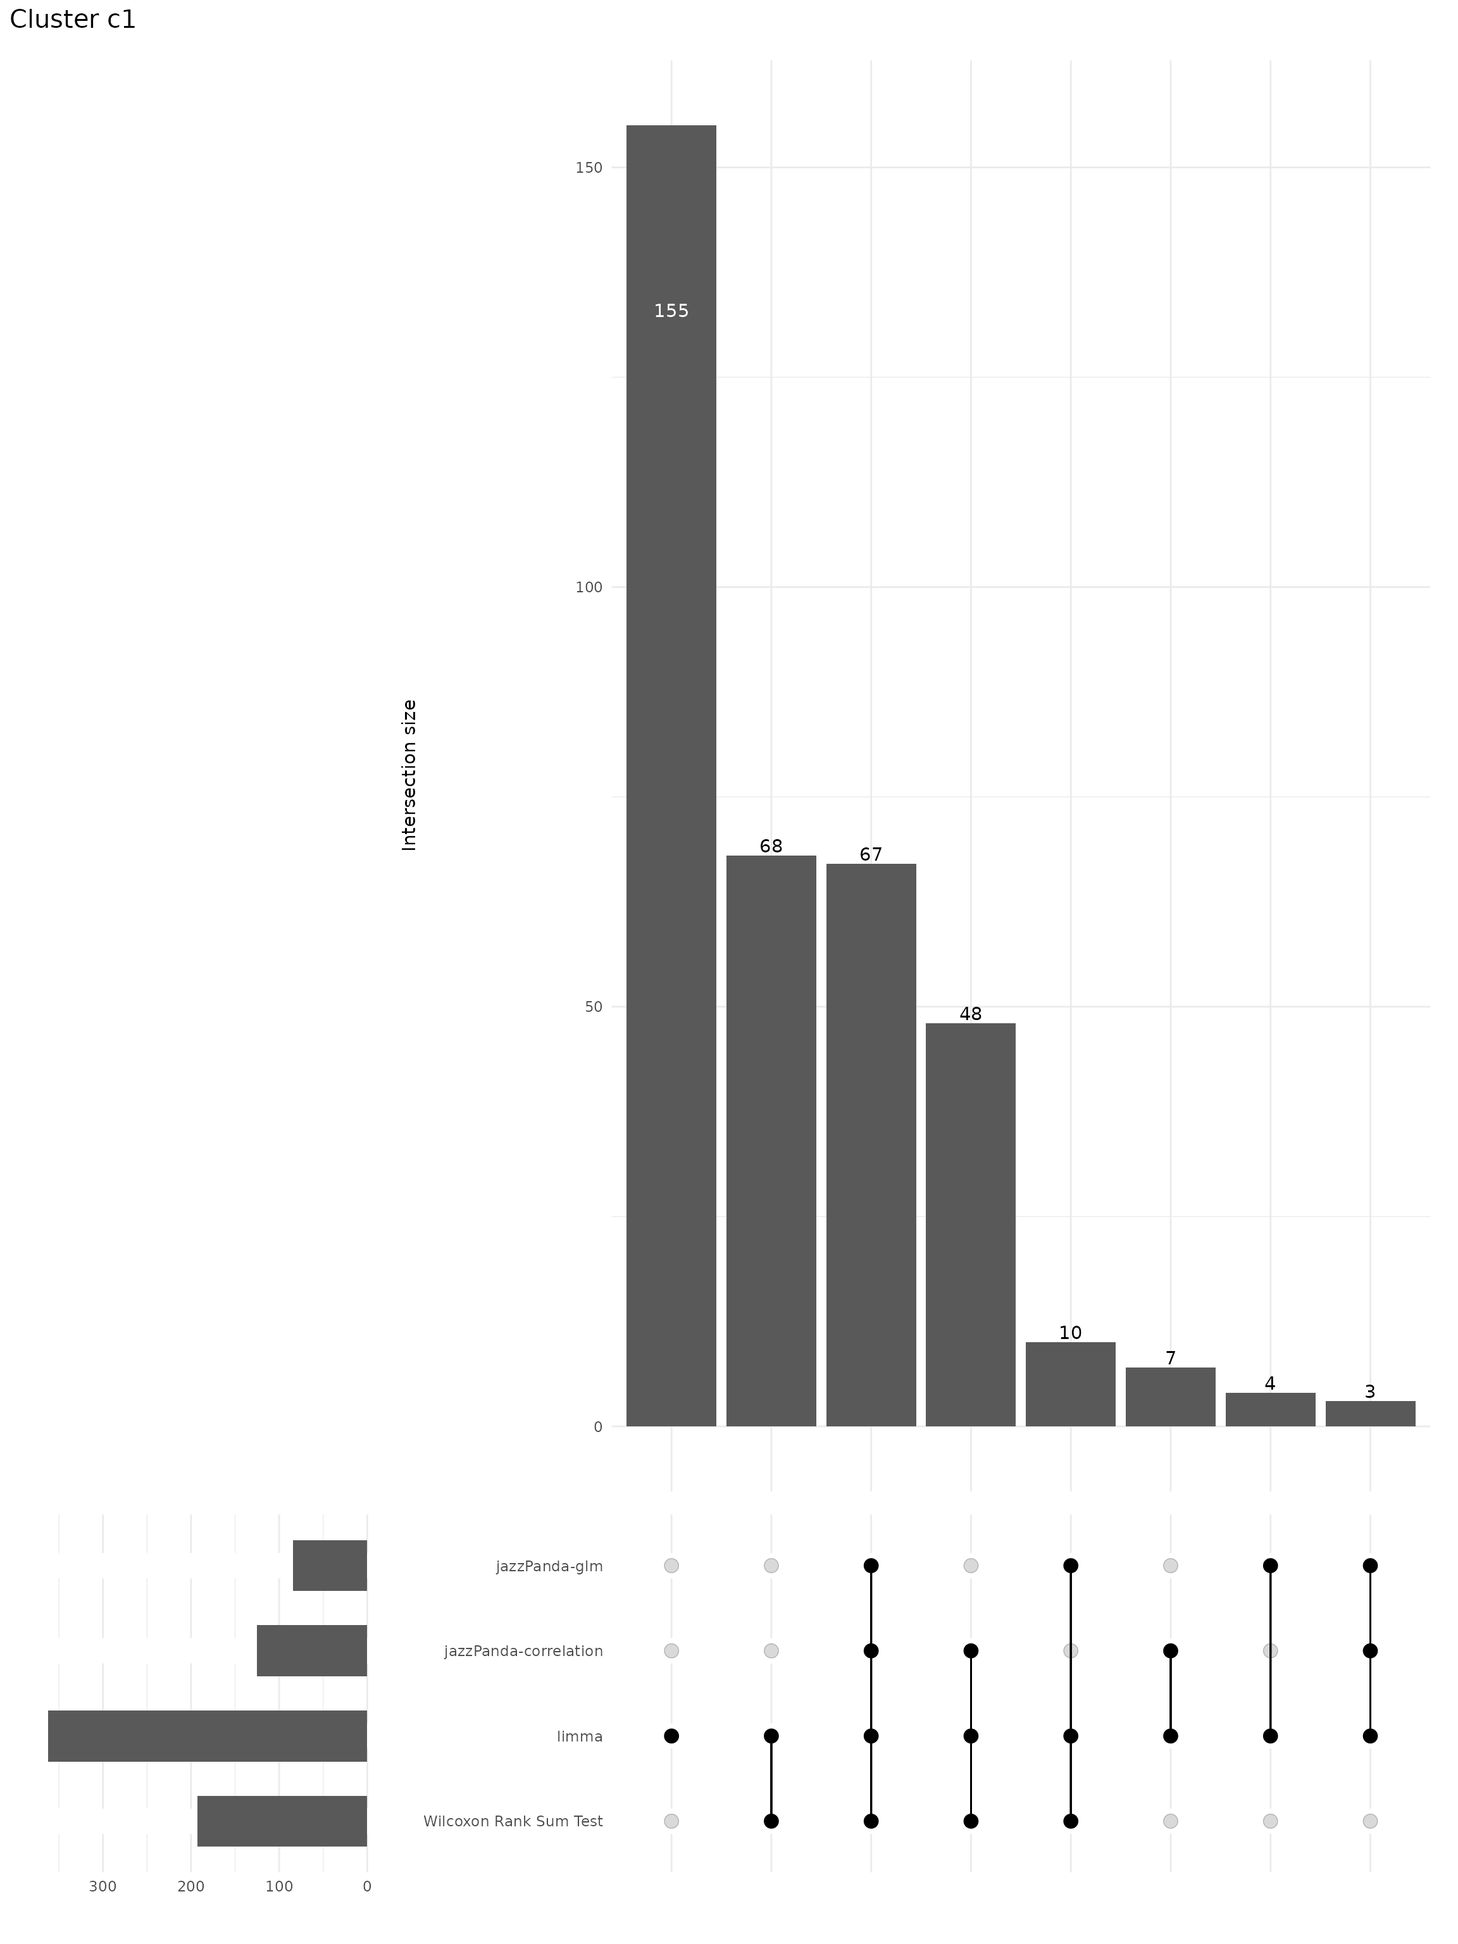
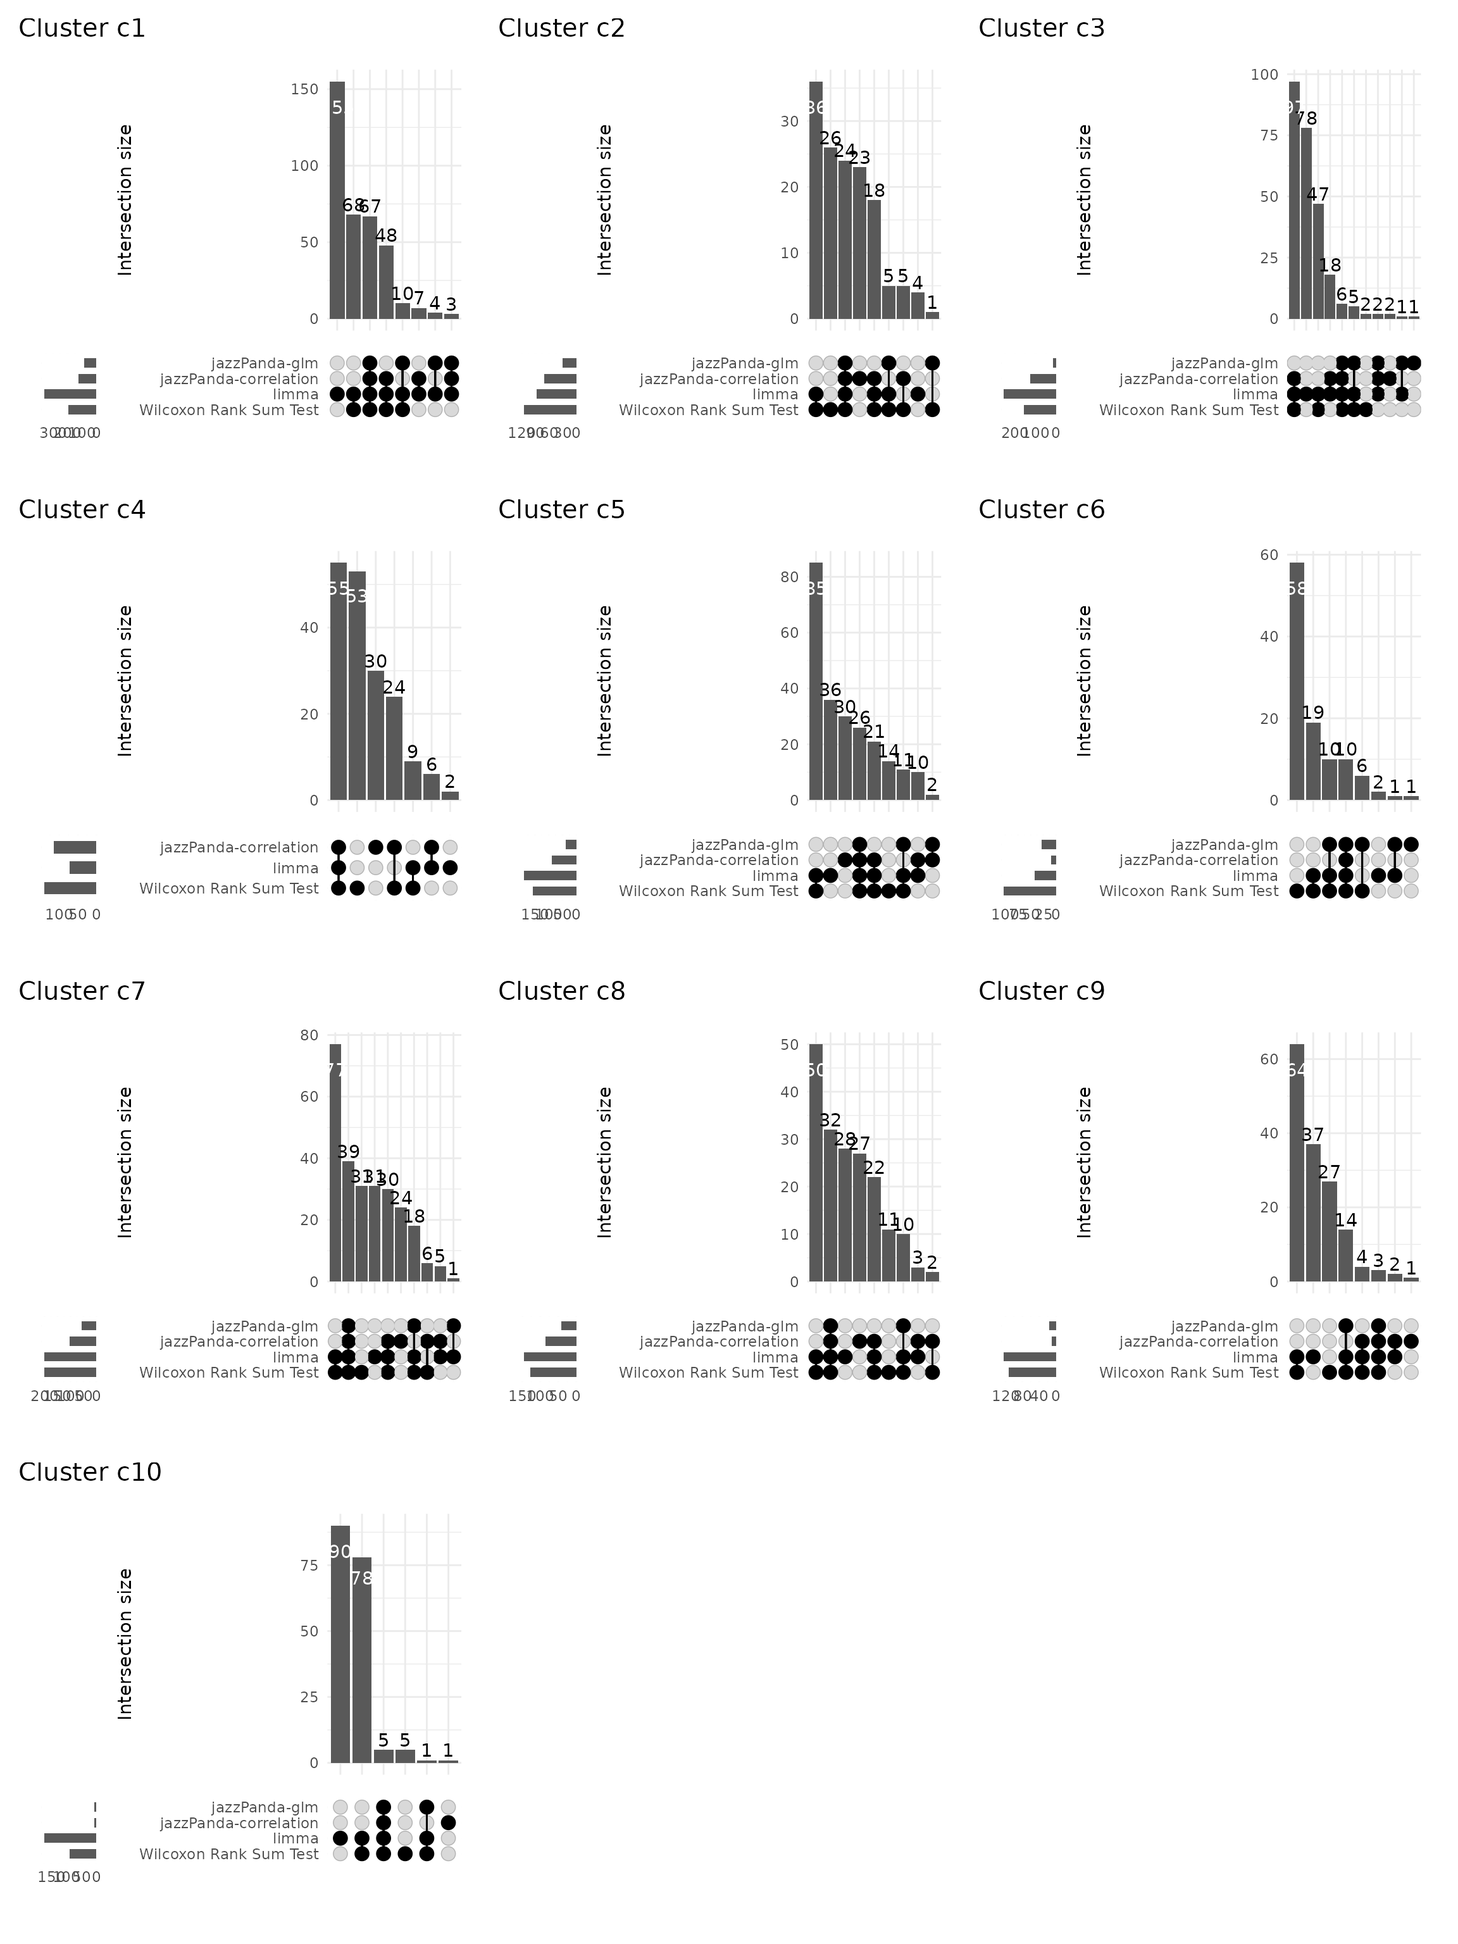
fix figure rendering issues

diff --git a/docs/cosmx-human-liver-cancer.html b/docs/cosmx-human-liver-cancer.html
@@ -9,7 +9,7 @@
 <meta http-equiv="X-UA-Compatible" content="IE=EDGE" />
 
 
-<meta name="author" content="Melody" />
+<meta name="author" content="Melody Jin" />
 
 <meta name="date" content="2026-02-18" />
 
@@ -363,7 +363,7 @@ div.tocify {
 
 
 <h1 class="title toc-ignore">Cosmx human liver cancer sample</h1>
-<h4 class="author">Melody</h4>
+<h4 class="author">Melody Jin</h4>
 <h4 class="date">2026-02-18</h4>
 
 </div>
@@ -1966,7 +1966,7 @@ for (cl in cluster_names){
     df_mt[perm_cl,&quot;jazzPanda-correlation&quot;] &lt;- TRUE
     
     df_mt$gene_name &lt;- row.names(df_mt)
-    p = plot(upset(df_mt,
+    p = upset(df_mt,
                intersect=c(&quot;Wilcoxon Rank Sum Test&quot;, &quot;limma&quot;,
                            &quot;jazzPanda-correlation&quot;,&quot;jazzPanda-glm&quot;),
                wrap=TRUE, keep_empty_groups= FALSE, name=&quot;&quot;,
@@ -1985,14 +1985,14 @@ for (cl in cluster_names){
                  ggtitle(cl)+
                  theme(plot.title = element_text( size=15))
 
-    )
+    
     plot_lst[[cl]] &lt;- p 
 }
 
 combined_plot &lt;- wrap_plots(plot_lst, ncol =3)
 
 combined_plot </code></pre>
-<p><img src="cosmx-human-liver-cancer_files/figure-html/upset-mg-comparison-1.png" width="1152" style="display: block; margin: auto;" /><img src="cosmx-human-liver-cancer_files/figure-html/upset-mg-comparison-2.png" width="1152" style="display: block; margin: auto;" /><img src="cosmx-human-liver-cancer_files/figure-html/upset-mg-comparison-3.png" width="1152" style="display: block; margin: auto;" /><img src="cosmx-human-liver-cancer_files/figure-html/upset-mg-comparison-4.png" width="1152" style="display: block; margin: auto;" /><img src="cosmx-human-liver-cancer_files/figure-html/upset-mg-comparison-5.png" width="1152" style="display: block; margin: auto;" /><img src="cosmx-human-liver-cancer_files/figure-html/upset-mg-comparison-6.png" width="1152" style="display: block; margin: auto;" /><img src="cosmx-human-liver-cancer_files/figure-html/upset-mg-comparison-7.png" width="1152" style="display: block; margin: auto;" /><img src="cosmx-human-liver-cancer_files/figure-html/upset-mg-comparison-8.png" width="1152" style="display: block; margin: auto;" /><img src="cosmx-human-liver-cancer_files/figure-html/upset-mg-comparison-9.png" width="1152" style="display: block; margin: auto;" /><img src="cosmx-human-liver-cancer_files/figure-html/upset-mg-comparison-10.png" width="1152" style="display: block; margin: auto;" /><img src="cosmx-human-liver-cancer_files/figure-html/upset-mg-comparison-11.png" width="1152" style="display: block; margin: auto;" /><img src="cosmx-human-liver-cancer_files/figure-html/upset-mg-comparison-12.png" width="1152" style="display: block; margin: auto;" /><img src="cosmx-human-liver-cancer_files/figure-html/upset-mg-comparison-13.png" width="1152" style="display: block; margin: auto;" /><img src="cosmx-human-liver-cancer_files/figure-html/upset-mg-comparison-14.png" width="1152" style="display: block; margin: auto;" /></p>
+<p><img src="cosmx-human-liver-cancer_files/figure-html/upset-mg-comparison-1.png" width="1152" style="display: block; margin: auto;" /></p>
 <pre class="r"><code>sessionInfo()</code></pre>
 <pre><code>R version 4.5.1 (2025-06-13)
 Platform: x86_64-pc-linux-gnu

diff --git a/docs/cosmx-human-healthy-liver.html b/docs/cosmx-human-healthy-liver.html
@@ -2058,7 +2058,7 @@ for (cl in cluster_names){
     df_mt[perm_cl,&quot;jazzPanda-correlation&quot;] &lt;- TRUE
     
     df_mt$gene_name &lt;- row.names(df_mt)
-    p = plot(upset(df_mt,
+    p = upset(df_mt,
                intersect=c(&quot;Wilcoxon Rank Sum Test&quot;, &quot;limma&quot;,
                            &quot;jazzPanda-correlation&quot;,&quot;jazzPanda-glm&quot;),
                wrap=TRUE, keep_empty_groups= FALSE, name=&quot;&quot;,
@@ -2077,14 +2077,13 @@ for (cl in cluster_names){
                  ggtitle(cl)+
                  theme(plot.title = element_text( size=15))
 
-    )
         plot_lst[[cl]] &lt;- p 
 }
 
 combined_plot &lt;- wrap_plots(plot_lst, ncol = 3)
 
 combined_plot </code></pre>
-<p><img src="cosmx-human-healthy-liver_files/figure-html/upset-mg-comparison-1.png" width="1152" style="display: block; margin: auto;" /><img src="cosmx-human-healthy-liver_files/figure-html/upset-mg-comparison-2.png" width="1152" style="display: block; margin: auto;" /><img src="cosmx-human-healthy-liver_files/figure-html/upset-mg-comparison-3.png" width="1152" style="display: block; margin: auto;" /><img src="cosmx-human-healthy-liver_files/figure-html/upset-mg-comparison-4.png" width="1152" style="display: block; margin: auto;" /><img src="cosmx-human-healthy-liver_files/figure-html/upset-mg-comparison-5.png" width="1152" style="display: block; margin: auto;" /><img src="cosmx-human-healthy-liver_files/figure-html/upset-mg-comparison-6.png" width="1152" style="display: block; margin: auto;" /><img src="cosmx-human-healthy-liver_files/figure-html/upset-mg-comparison-7.png" width="1152" style="display: block; margin: auto;" /><img src="cosmx-human-healthy-liver_files/figure-html/upset-mg-comparison-8.png" width="1152" style="display: block; margin: auto;" /><img src="cosmx-human-healthy-liver_files/figure-html/upset-mg-comparison-9.png" width="1152" style="display: block; margin: auto;" /><img src="cosmx-human-healthy-liver_files/figure-html/upset-mg-comparison-10.png" width="1152" style="display: block; margin: auto;" /><img src="cosmx-human-healthy-liver_files/figure-html/upset-mg-comparison-11.png" width="1152" style="display: block; margin: auto;" /><img src="cosmx-human-healthy-liver_files/figure-html/upset-mg-comparison-12.png" width="1152" style="display: block; margin: auto;" /><img src="cosmx-human-healthy-liver_files/figure-html/upset-mg-comparison-13.png" width="1152" style="display: block; margin: auto;" /><img src="cosmx-human-healthy-liver_files/figure-html/upset-mg-comparison-14.png" width="1152" style="display: block; margin: auto;" /><img src="cosmx-human-healthy-liver_files/figure-html/upset-mg-comparison-15.png" width="1152" style="display: block; margin: auto;" /><img src="cosmx-human-healthy-liver_files/figure-html/upset-mg-comparison-16.png" width="1152" style="display: block; margin: auto;" /></p>
+<p><img src="cosmx-human-healthy-liver_files/figure-html/upset-mg-comparison-1.png" width="1152" style="display: block; margin: auto;" /></p>
 <p>Together, these comparisons highlight that jazzPanda captures
 spatially enriched marker genes that complement traditional DE-based
 methods, providing a more nuanced view of cell-type–specific spatial

diff --git a/docs/xenium-human-lung-cancer-analysis.html b/docs/xenium-human-lung-cancer-analysis.html
@@ -1851,7 +1851,7 @@ for (cl in cluster_names){
     
     df_mt$gene_name &lt;- row.names(df_mt)
     
-    p = plot(upset(df_mt,
+    p = upset(df_mt,
                intersect=c(&quot;Wilcoxon Rank Sum Test&quot;, &quot;limma&quot;,
                            &quot;jazzPanda-correlation&quot;,&quot;jazzPanda-glm&quot;),
                wrap=TRUE, keep_empty_groups= FALSE, name=&quot;&quot;,
@@ -1868,14 +1868,14 @@ for (cl in cluster_names){
             ggtitle(paste0(&quot;Cluster &quot;, cl))+
                  theme(plot.title = element_text( size=15))
 
-    )
+    
     plot_lst[[cl]] &lt;- p 
 }
 
 combined_plot &lt;- wrap_plots(plot_lst, ncol =3)
 
 combined_plot </code></pre>
-<p><img src="xenium-human-lung-cancer-analysis_files/figure-html/upset-mg-comparison-1.png" width="1152" style="display: block; margin: auto;" /><img src="xenium-human-lung-cancer-analysis_files/figure-html/upset-mg-comparison-2.png" width="1152" style="display: block; margin: auto;" /><img src="xenium-human-lung-cancer-analysis_files/figure-html/upset-mg-comparison-3.png" width="1152" style="display: block; margin: auto;" /><img src="xenium-human-lung-cancer-analysis_files/figure-html/upset-mg-comparison-4.png" width="1152" style="display: block; margin: auto;" /><img src="xenium-human-lung-cancer-analysis_files/figure-html/upset-mg-comparison-5.png" width="1152" style="display: block; margin: auto;" /><img src="xenium-human-lung-cancer-analysis_files/figure-html/upset-mg-comparison-6.png" width="1152" style="display: block; margin: auto;" /><img src="xenium-human-lung-cancer-analysis_files/figure-html/upset-mg-comparison-7.png" width="1152" style="display: block; margin: auto;" /><img src="xenium-human-lung-cancer-analysis_files/figure-html/upset-mg-comparison-8.png" width="1152" style="display: block; margin: auto;" /><img src="xenium-human-lung-cancer-analysis_files/figure-html/upset-mg-comparison-9.png" width="1152" style="display: block; margin: auto;" /><img src="xenium-human-lung-cancer-analysis_files/figure-html/upset-mg-comparison-10.png" width="1152" style="display: block; margin: auto;" /><img src="xenium-human-lung-cancer-analysis_files/figure-html/upset-mg-comparison-11.png" width="1152" style="display: block; margin: auto;" /><img src="xenium-human-lung-cancer-analysis_files/figure-html/upset-mg-comparison-12.png" width="1152" style="display: block; margin: auto;" /><img src="xenium-human-lung-cancer-analysis_files/figure-html/upset-mg-comparison-13.png" width="1152" style="display: block; margin: auto;" /><img src="xenium-human-lung-cancer-analysis_files/figure-html/upset-mg-comparison-14.png" width="1152" style="display: block; margin: auto;" /></p>
+<p><img src="xenium-human-lung-cancer-analysis_files/figure-html/upset-mg-comparison-1.png" width="1152" style="display: block; margin: auto;" /></p>
 </div>
 </div>
 <div id="annotate-cell-type-with-top-marker-genes"

diff --git a/docs/merscope-human-breast-cancer.html b/docs/merscope-human-breast-cancer.html
@@ -1881,7 +1881,7 @@ for (cl in cluster_names){
     
     df_mt$gene_name &lt;- row.names(df_mt)
     
-    p = plot(upset(df_mt,
+    p = upset(df_mt,
                intersect=c(&quot;Wilcoxon Rank Sum Test&quot;, &quot;limma&quot;,
                            &quot;jazzPanda-correlation&quot;,&quot;jazzPanda-glm&quot;),
                wrap=TRUE, keep_empty_groups= FALSE, name=&quot;&quot;,
@@ -1897,8 +1897,6 @@ for (cl in cluster_names){
                width_ratio=0.3, height_ratio=1/4)+
             ggtitle(paste0(&quot;Cluster &quot;,cl))+
                  theme(plot.title = element_text( size=15))
-
-    )
            
         plot_lst[[cl]] &lt;- p 
 }
@@ -1906,7 +1904,7 @@ for (cl in cluster_names){
 combined_plot &lt;- wrap_plots(plot_lst, ncol =3)
 
 combined_plot </code></pre>
-<p><img src="merscope-human-breast-cancer_files/figure-html/upset-mg-comparison-1.png" width="1152" style="display: block; margin: auto;" /><img src="merscope-human-breast-cancer_files/figure-html/upset-mg-comparison-2.png" width="1152" style="display: block; margin: auto;" /><img src="merscope-human-breast-cancer_files/figure-html/upset-mg-comparison-3.png" width="1152" style="display: block; margin: auto;" /><img src="merscope-human-breast-cancer_files/figure-html/upset-mg-comparison-4.png" width="1152" style="display: block; margin: auto;" /><img src="merscope-human-breast-cancer_files/figure-html/upset-mg-comparison-5.png" width="1152" style="display: block; margin: auto;" /><img src="merscope-human-breast-cancer_files/figure-html/upset-mg-comparison-6.png" width="1152" style="display: block; margin: auto;" /><img src="merscope-human-breast-cancer_files/figure-html/upset-mg-comparison-7.png" width="1152" style="display: block; margin: auto;" /><img src="merscope-human-breast-cancer_files/figure-html/upset-mg-comparison-8.png" width="1152" style="display: block; margin: auto;" /><img src="merscope-human-breast-cancer_files/figure-html/upset-mg-comparison-9.png" width="1152" style="display: block; margin: auto;" /><img src="merscope-human-breast-cancer_files/figure-html/upset-mg-comparison-10.png" width="1152" style="display: block; margin: auto;" /><img src="merscope-human-breast-cancer_files/figure-html/upset-mg-comparison-11.png" width="1152" style="display: block; margin: auto;" /></p>
+<p><img src="merscope-human-breast-cancer_files/figure-html/upset-mg-comparison-1.png" width="1152" style="display: block; margin: auto;" /></p>
 </div>
 </div>
 <div id="annotate-cell-type-with-top-marker-genes"

diff --git a/docs/xenium-human-breast-cancer-analysis.html b/docs/xenium-human-breast-cancer-analysis.html
@@ -1683,7 +1683,7 @@ for (cl in cluster_names){
     
     df_mt$gene_name &lt;- row.names(df_mt)
     
-    p = plot(upset(df_mt,
+    p = upset(df_mt,
                intersect=c(&quot;Wilcoxon Rank Sum Test&quot;, &quot;limma&quot;,
                            &quot;jazzPanda-glm&quot;),
                wrap=TRUE, keep_empty_groups= FALSE, name=&quot;&quot;,
@@ -1701,15 +1701,13 @@ for (cl in cluster_names){
                width_ratio=0.3, height_ratio=1/4)+
               ggtitle(ct_nm)+
                  theme(plot.title = element_text( size=15))
-
-    )
         plot_lst[[cl]] &lt;- p 
 }
 
 combined_plot &lt;- wrap_plots(plot_lst, ncol = 3)
 
 combined_plot </code></pre>
-<p><img src="xenium-human-breast-cancer-analysis_files/figure-html/upset-mg-comparison-1.png" width="1152" style="display: block; margin: auto;" /><img src="xenium-human-breast-cancer-analysis_files/figure-html/upset-mg-comparison-2.png" width="1152" style="display: block; margin: auto;" /><img src="xenium-human-breast-cancer-analysis_files/figure-html/upset-mg-comparison-3.png" width="1152" style="display: block; margin: auto;" /><img src="xenium-human-breast-cancer-analysis_files/figure-html/upset-mg-comparison-4.png" width="1152" style="display: block; margin: auto;" /><img src="xenium-human-breast-cancer-analysis_files/figure-html/upset-mg-comparison-5.png" width="1152" style="display: block; margin: auto;" /><img src="xenium-human-breast-cancer-analysis_files/figure-html/upset-mg-comparison-6.png" width="1152" style="display: block; margin: auto;" /><img src="xenium-human-breast-cancer-analysis_files/figure-html/upset-mg-comparison-7.png" width="1152" style="display: block; margin: auto;" /><img src="xenium-human-breast-cancer-analysis_files/figure-html/upset-mg-comparison-8.png" width="1152" style="display: block; margin: auto;" /><img src="xenium-human-breast-cancer-analysis_files/figure-html/upset-mg-comparison-9.png" width="1152" style="display: block; margin: auto;" /><img src="xenium-human-breast-cancer-analysis_files/figure-html/upset-mg-comparison-10.png" width="1152" style="display: block; margin: auto;" /></p>
+<p><img src="xenium-human-breast-cancer-analysis_files/figure-html/upset-mg-comparison-1.png" width="1152" style="display: block; margin: auto;" /></p>
 <pre class="r"><code>sessionInfo()</code></pre>
 <pre><code>R version 4.5.1 (2025-06-13)
 Platform: x86_64-pc-linux-gnu

diff --git a/docs/xenium-mouse-brain-analysis.html b/docs/xenium-mouse-brain-analysis.html
@@ -1643,7 +1643,7 @@ for (cl in cluster_names){
     
     df_mt$gene_name &lt;- row.names(df_mt)
     
-    p = plot(upset(df_mt,
+    p = upset(df_mt,
                intersect=c(&quot;Wilcoxon Rank Sum Test&quot;, &quot;limma&quot;,
                            &quot;jazzPanda-glm&quot;),
                wrap=TRUE, keep_empty_groups= FALSE, name=&quot;&quot;,
@@ -1661,8 +1661,6 @@ for (cl in cluster_names){
                width_ratio=0.3, height_ratio=1/4)+
               ggtitle(paste0(&quot;Cluster: &quot;, cl))+
                  theme(plot.title = element_text( size=15))
-
-    )
          
     plot_lst[[cl]] &lt;- p 
 }
@@ -1671,7 +1669,7 @@ for (cl in cluster_names){
 combined_plot &lt;- wrap_plots(plot_lst, ncol = 3)
 
 combined_plot </code></pre>
-<p><img src="xenium-mouse-brain-analysis_files/figure-html/upset-mg-comparison-1.png" width="1152" style="display: block; margin: auto;" /><img src="xenium-mouse-brain-analysis_files/figure-html/upset-mg-comparison-2.png" width="1152" style="display: block; margin: auto;" /><img src="xenium-mouse-brain-analysis_files/figure-html/upset-mg-comparison-3.png" width="1152" style="display: block; margin: auto;" /><img src="xenium-mouse-brain-analysis_files/figure-html/upset-mg-comparison-4.png" width="1152" style="display: block; margin: auto;" /><img src="xenium-mouse-brain-analysis_files/figure-html/upset-mg-comparison-5.png" width="1152" style="display: block; margin: auto;" /><img src="xenium-mouse-brain-analysis_files/figure-html/upset-mg-comparison-6.png" width="1152" style="display: block; margin: auto;" /><img src="xenium-mouse-brain-analysis_files/figure-html/upset-mg-comparison-7.png" width="1152" style="display: block; margin: auto;" /><img src="xenium-mouse-brain-analysis_files/figure-html/upset-mg-comparison-8.png" width="1152" style="display: block; margin: auto;" /><img src="xenium-mouse-brain-analysis_files/figure-html/upset-mg-comparison-9.png" width="1152" style="display: block; margin: auto;" /><img src="xenium-mouse-brain-analysis_files/figure-html/upset-mg-comparison-10.png" width="1152" style="display: block; margin: auto;" /></p>
+<p><img src="xenium-mouse-brain-analysis_files/figure-html/upset-mg-comparison-1.png" width="1152" style="display: block; margin: auto;" /></p>
 </div>
 </div>
 <div id="annotate-cell-type-with-top-marker-genes"
